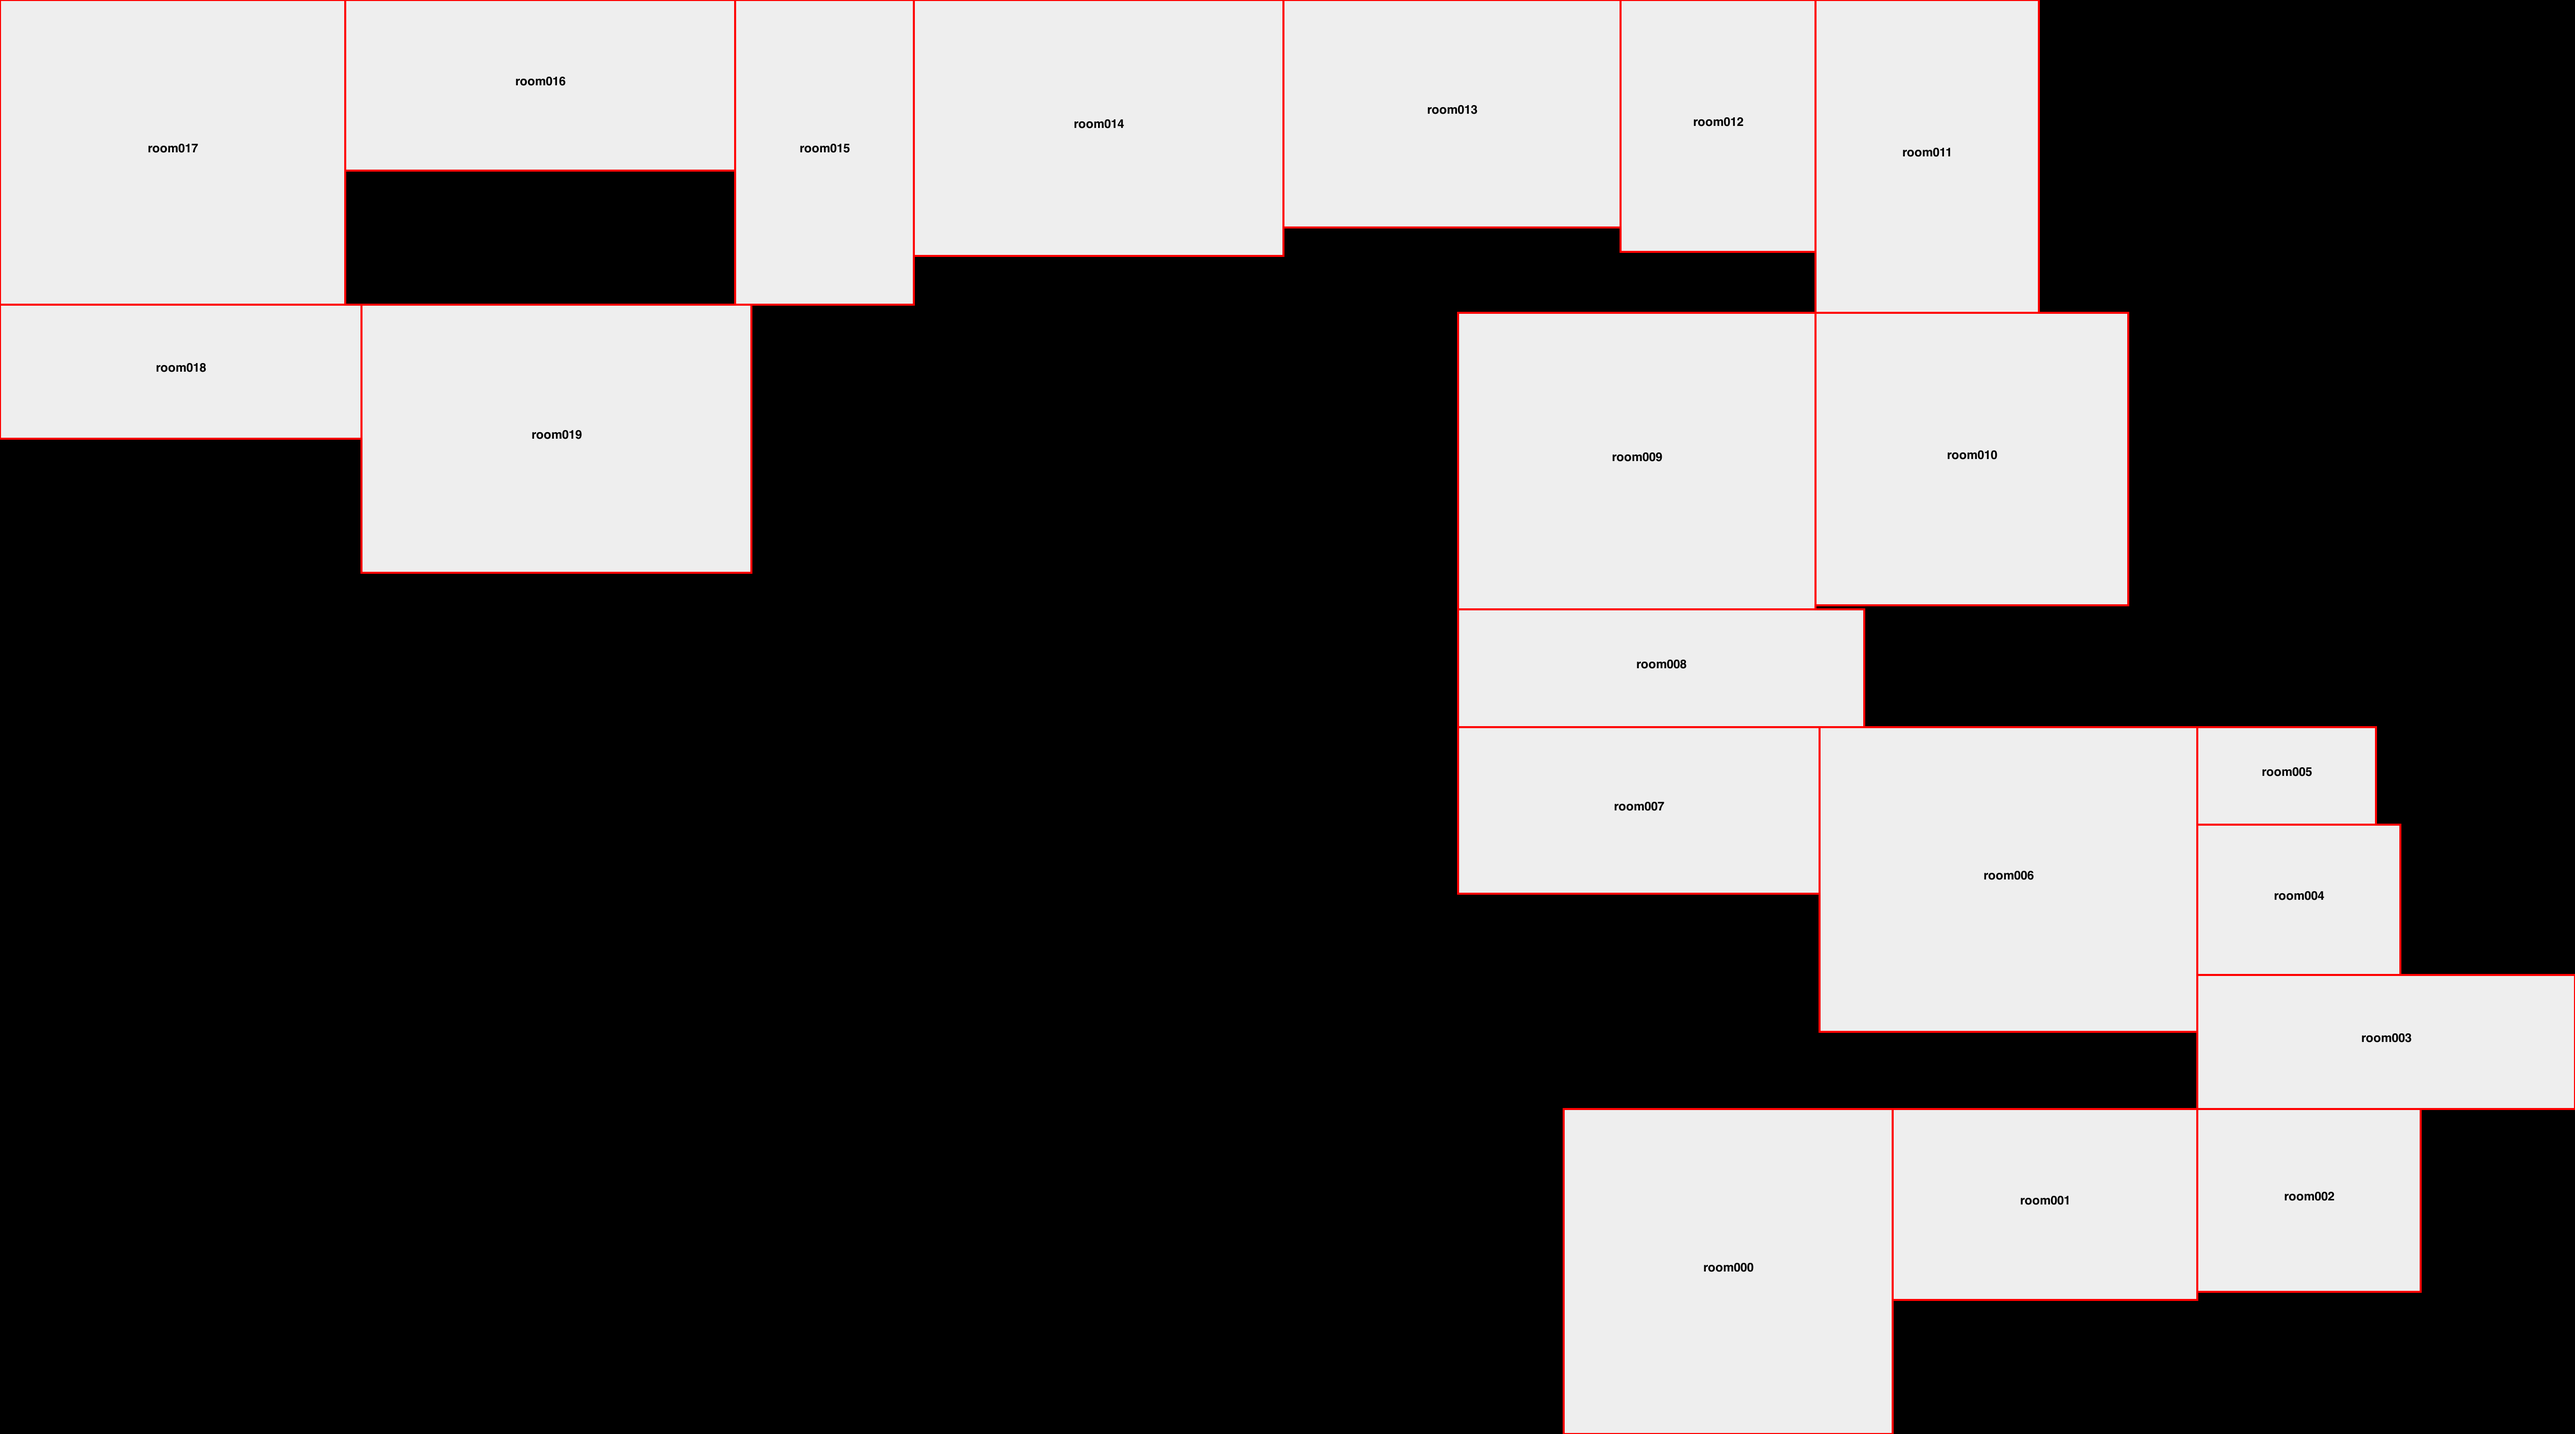
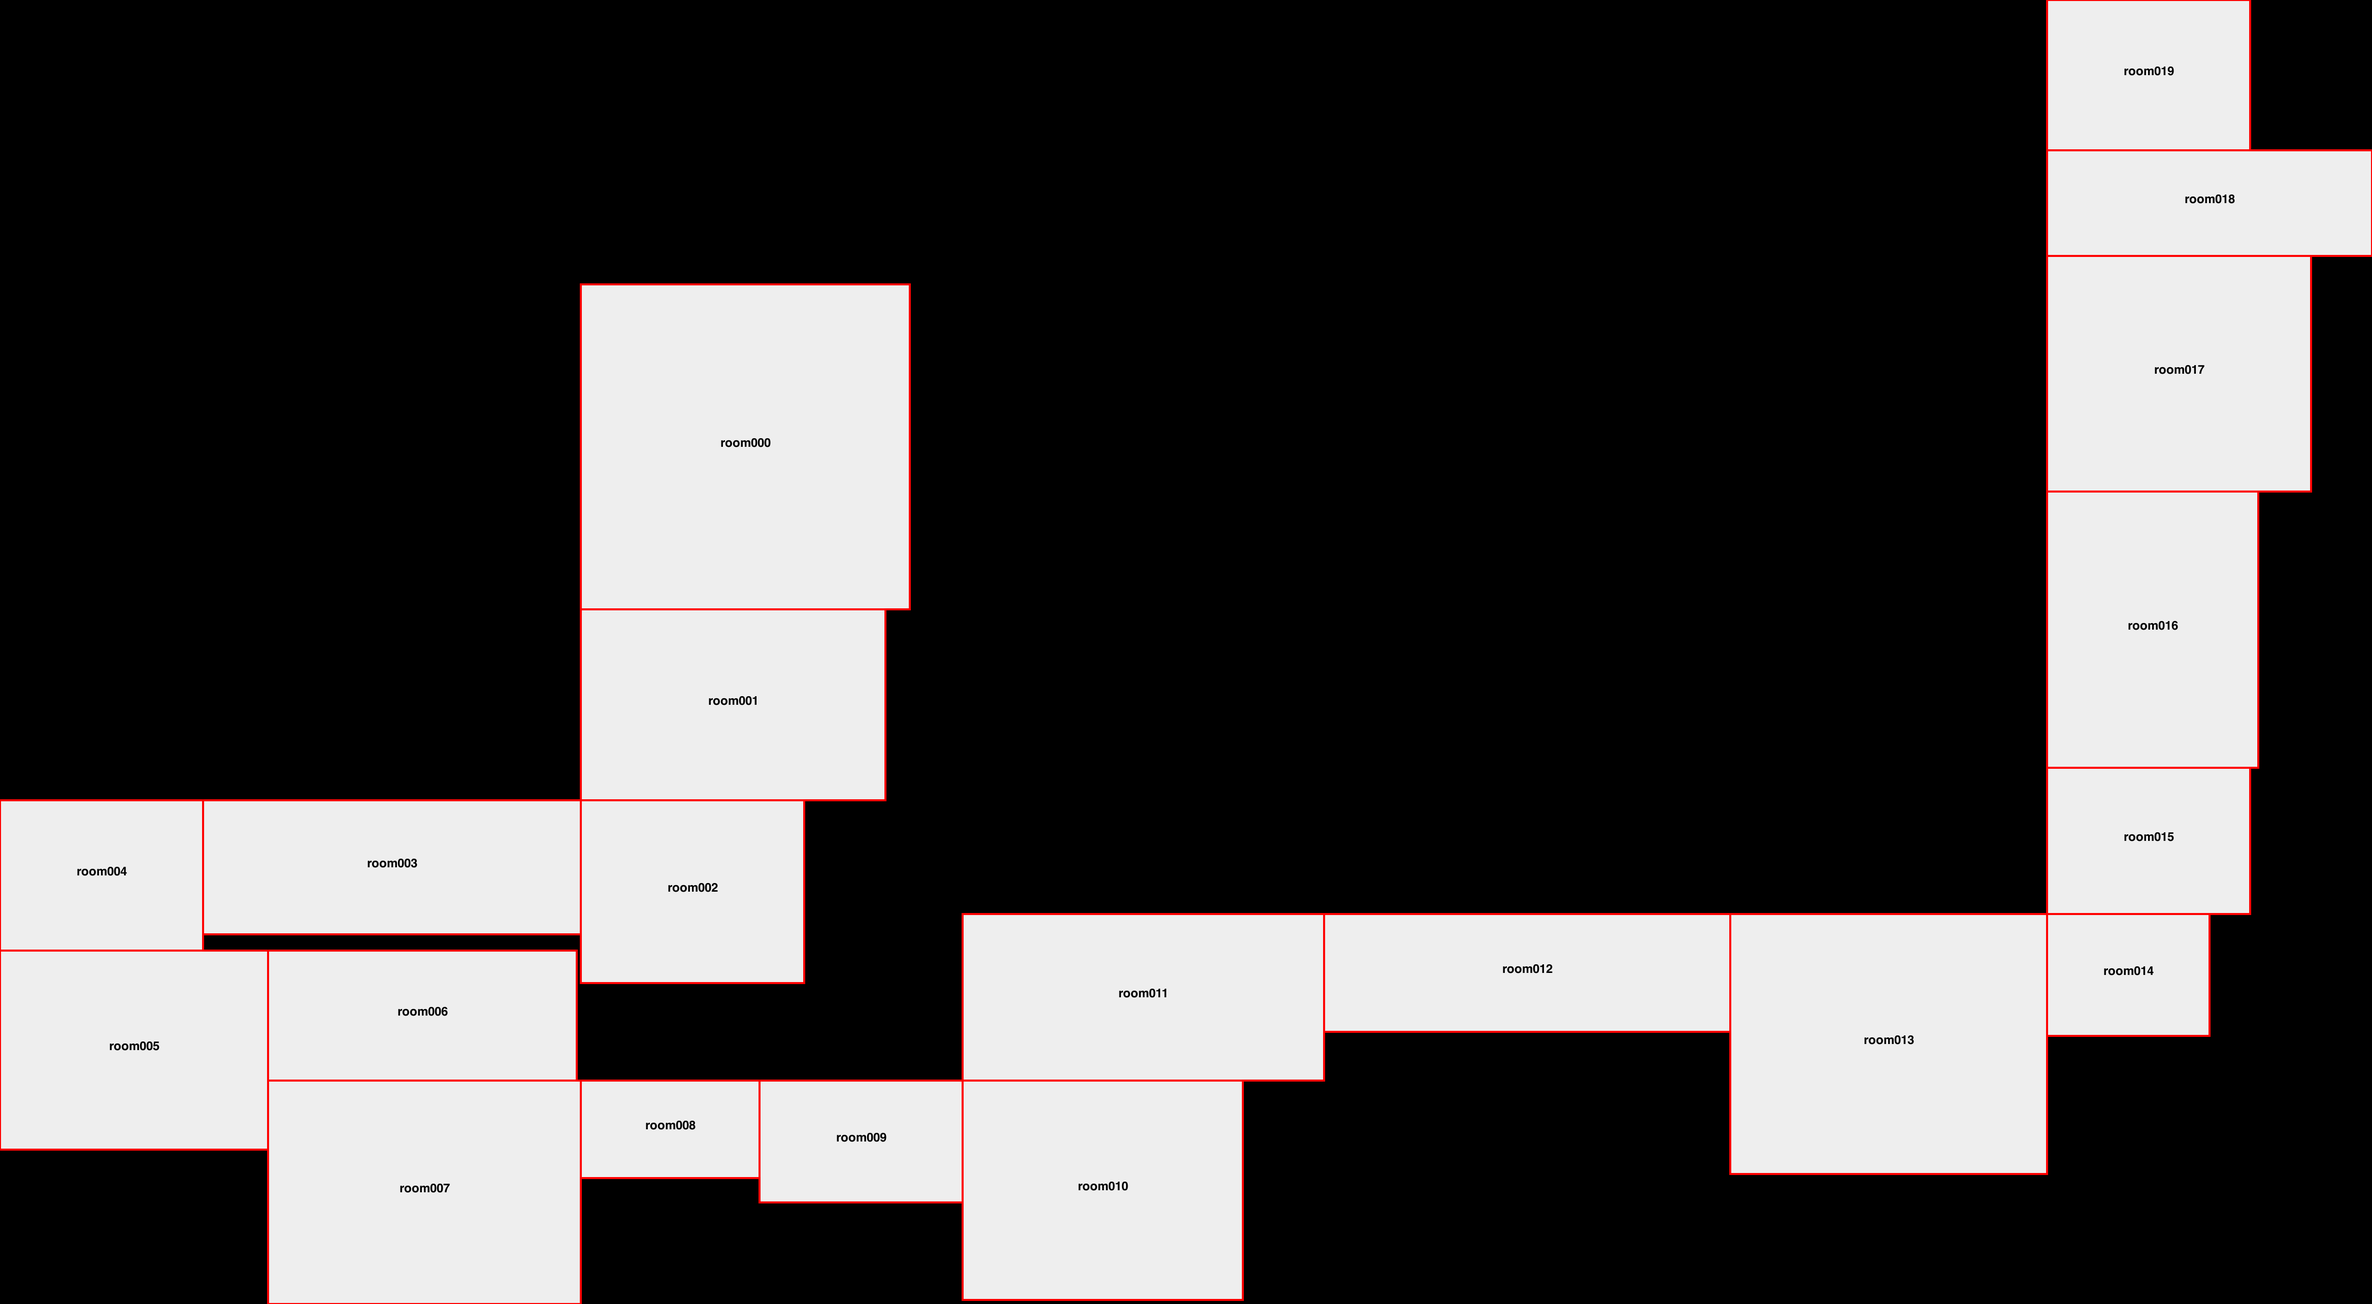
wall bounce climb

diff --git a/lib/rooms.js b/lib/rooms.js
@@ -1,14 +1,8 @@
 const fs = require('fs');
 const { Room, Tiles } = require('lucid-dream');
 const { randomInt } = require('./rng');
-const { fill2dArray } = require('./utils');
-
-const directionMap = [
-	[ 0, 1 ],
-	[ 0, -1 ],
-	[ 1, 0 ],
-	[ -1, 0 ]
-];
+const { fill2dArray, nextRoomPosition, printTileArray } = require('./utils');
+const { wallBounceClimb } = require('./challenges');
 
 function intersects(room1, room2) {
 	const rb1 = room1.getBounds();
@@ -23,55 +17,24 @@ exports.generateRooms = function(opts = {}) {
 	let lastRoom;
 
 	for (let i = 0; i < roomCount; i++) {
-		if (!lastRoom) {
-			const pos = [ 0, 0 ];
-			const room = new Room(pos, {
-				name: `room${i.toString().padStart(3, '0')}`,
-				size: [ randomInt(40, 100), randomInt(23, 80) ]
-			});
-			rooms.push(room);
-			lastRoom = room;
-		} else {
-			let pos, isIntersected, room;
+		const name = `room${i.toString().padStart(3, '0')}`;
+		const size = [ randomInt(40, 100), randomInt(23, 80) ];
+		const room = new Room([ 0, 0 ], { name, size });
+
+		if (lastRoom) {
+			// get new room that doesn't intersect with other rooms
+			let isIntersected;
 			do {
-				const size = [ randomInt(40, 100), randomInt(23, 80) ];
-				const direction = directionMap[randomInt(0, 3)];
-				if (direction[0] === 1) {
-					pos = [
-						lastRoom.position[0] + lastRoom.size[0],
-						lastRoom.position[1]
-					];
-				} else if (direction[0] === -1) {
-					pos = [
-						lastRoom.position[0] - size[0] * 8,
-						lastRoom.position[1]
-					];
-				} else if (direction[1] === 1) {
-					pos = [
-						lastRoom.position[0],
-						lastRoom.position[1] + lastRoom.size[1]
-					];
-				} else {
-					pos = [
-						lastRoom.position[0],
-						lastRoom.position[1] - size[1] * 8
-					];
-				}
-
-				room = new Room(pos, {
-					name: `room${i.toString().padStart(3, '0')}`,
-					size
-				});
-
-				for (let iRoom of rooms) {
-					isIntersected = intersects(room, iRoom);
+				room.position = nextRoomPosition(lastRoom, size);
+				for (let otherRoom of rooms) {
+					isIntersected = intersects(room, otherRoom);
 					if (isIntersected) { break; }
 				}
 			} while (isIntersected);
-
-			rooms.push(room);
-			lastRoom = room;
 		}
+
+		rooms.push(room);
+		lastRoom = room;
 	}
 
 	return rooms;
@@ -79,9 +42,10 @@ exports.generateRooms = function(opts = {}) {
 
 exports.generateTiles = function(rooms) {
 	for (let room of rooms) {
-		const [ width, height ] = room.size.map(s => s / 8);
+		const [ width, height ] = room.tileSize;
 		const tiles = fill2dArray(height, width, '0');
 
+		// border
 		for (let i = 0; i < tiles.length; i++) {
 			const row = tiles[i];
 			if (i === 0 || i === tiles.length - 1) {
@@ -90,8 +54,18 @@ exports.generateTiles = function(rooms) {
 				row[0] = row[row.length - 1] = '1';
 			}
 		}
-
 		room.fgTiles = new Tiles(tiles);
+
+		// stuff
+		if (height > 23) {
+			const wbcHeight = Math.floor(2 * room.tileSize[1] / 3);
+			wallBounceClimb.generate(
+				room,
+				8,
+				height - 8 - wbcHeight,
+				{ height: wbcHeight }
+			);
+		}
 	}
 };
 
@@ -138,4 +112,4 @@ exports.drawRooms = async function(map) {
 		});
 		out.on('error', reject);
 	});
-}
+};

diff --git a/lib/challenges/wallBounceClimb.js b/lib/challenges/wallBounceClimb.js
@@ -1,0 +1,49 @@
+const { Entity } = require('lucid-dream');
+
+const sideOpts = {
+	A: {
+		surfaceHeight: 3,
+		surfaceWidth: 2,
+		distanceY: 5,
+		distanceX: 9
+	}
+};
+
+function generate(room, x, y, opts) {
+	const { side = 'A', height } = opts;
+	const { surfaceHeight, surfaceWidth, distanceY, distanceX } = sideOpts[side];
+	const tiles = room.fgTiles.data;
+	const entities = [];
+
+	let offsetH = 0;
+	let offsetW = 0;
+	let noOfClimbs = Math.floor(height / (surfaceHeight + distanceY));
+	for (let i = 0; i < noOfClimbs; i++) {
+		offsetH = i * (surfaceHeight + distanceY);
+		offsetW = i % 2 ? 0 : distanceX;
+		for (let h = 0; h < surfaceHeight; h++) {
+			for (let w = 0; w < surfaceWidth; w++) {
+				tiles[(y + height) - (h + offsetH)][x + w + offsetW] = '1';
+			}
+		}
+
+		const refill = new Entity.Refill({
+			x: (i % 2 === 0 ? x + surfaceWidth + 1 : x + surfaceWidth + distanceX - 2.5) * 8,
+			y: (y + height - ((i + 1) * (surfaceHeight + distanceY)) + 2) * 8
+		});
+		if (room.name === 'room000') {
+			console.log({ x: refill.data.x, y: refill.data.y });
+		}
+		room.entities.push(refill);
+	}
+
+	return {
+		tiles,
+		entities
+	};
+}
+
+module.exports = {
+	name: 'Wall Bounce Climb',
+	generate
+};

diff --git a/lib/utils.js b/lib/utils.js
@@ -1,5 +1,36 @@
+const { randomInt } = require('./rng');
+
 exports.fill2dArray = function(rows, cols, val) {
 	return Array.from({ length: rows }, () => (
 		Array.from({ length: cols }, () => val)
 	));
+};
+
+exports.nextRoomPosition = function(room, size, direction) {
+	direction = direction || [ 'right', 'left', 'up', 'down' ][randomInt(0, 3)];
+
+	switch (direction) {
+		case 'right':
+			return [ room.position[0] + room.size[0], room.position[1] ];
+		case 'left':
+			return [ room.position[0] - size[0] * 8, room.position[1] ];
+		case 'up':
+			return [ room.position[0], room.position[1] + room.size[1] ];
+		case 'down':
+			return [ room.position[0], room.position[1] - size[1] * 8 ];
+		default:
+			throw new Error(`invalid direction "${direction}"`);
+	}
+};
+
+exports.superimpose = function(src, dst, x, y) {
+	for (let i = 0; i < src.length; i++) {
+		for (let j = 0; j < src[0].length; j++) {
+			dst[y + i][x + j] = src[i][j];
+		}
+	}
+};
+
+exports.printTileArray = function(tiles) {
+	console.log(tiles.map(t => t.join('')).join('\n'));
 };

diff --git a/index.js b/index.js
@@ -13,9 +13,10 @@ const binFile = 'fever-dream.bin';
 		const side = new Side();
 		const { map } = side;
 
-		// generate the rooms
+		// generate the room structure
 		map.rooms = rooms.generateRooms();
 		rooms.generateTiles(map.rooms);
+
 		map.rooms[0].entities.push(new Entity.Player({
 			x: 160,
 			y: 50

diff --git a/.eslintrc.js b/.eslintrc.js
@@ -17,7 +17,8 @@ module.exports = {
 	'rules': {
 		'indent': [
 			'error',
-			'tab'
+			'tab',
+			{ 'SwitchCase': 1 }
 		],
 		'quotes': [
 			'error',

diff --git a/lib/challenges/index.js b/lib/challenges/index.js
@@ -1,0 +1,3 @@
+module.exports = {
+	wallBounceClimb: require('./wallBounceClimb')
+};
